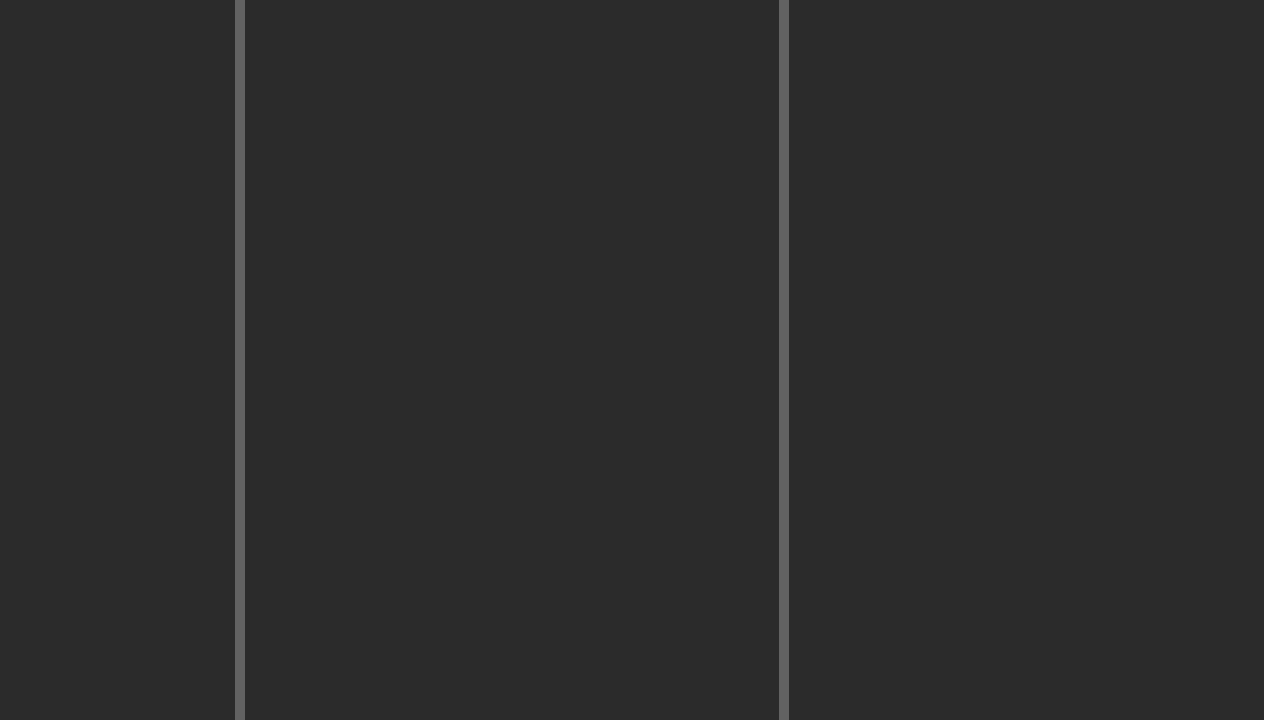
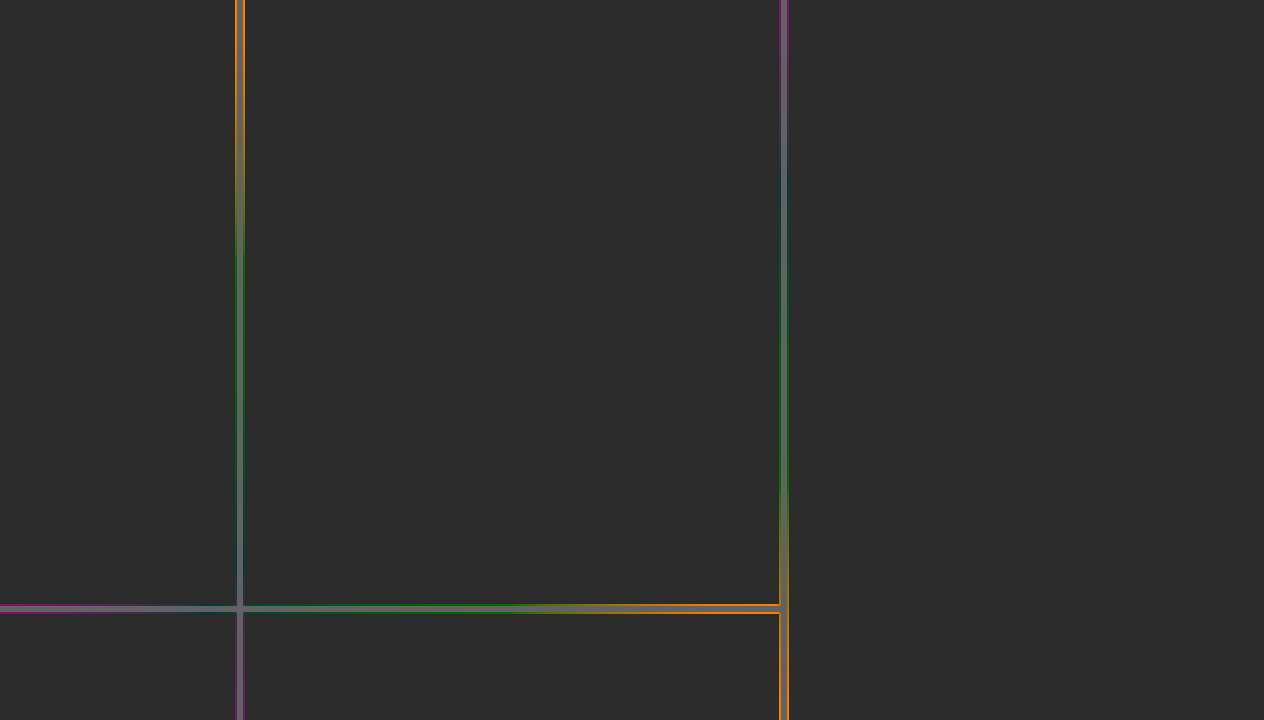
Window full 1.0v

Changed region(s): [[0.0, 0.0, 0.6171, 1.0]]

diff --git a/window.py b/window.py
@@ -1,8 +1,7 @@
 from tkinter import*
 from datetime import datetime
-
-temp=0
-after_id=''
+temp = 0
+after_id = ''
 def tick():
     global temp,after_id
     after_id = root.after(1000,tick)
@@ -11,7 +10,6 @@ def tick():
     temp+=1
 def start_timer():
     tick()
-
 def stop_timer():
     root.after_cancel(after_id)
 
@@ -20,66 +18,86 @@ def stop_timer():
 root = Tk()
 root.title('SpamBot')
 root.geometry('1264x720')
-root.resizable(width = False, height = False)
-root.image = PhotoImage(file = ("pictures/backgraund.png"))
-bg= Label(root, image = root.image)
-bg.grid( row = 0, column = 0)
+root.resizable(width=False, height=False)
+root.image = PhotoImage(file=("pictures/backgraund.png"))
+bg = Label(root, image=root.image)
+bg.grid(row=0, column=0)
 
 
 # <----------Top Name-------------->
 t1 = Label(root, text='Enter yout text here:', fg='white', background='#2c2c2c')
-t1.config(font = ('Comic Sans MS', 20))
-t1.place(x = 365, y = 20)
+t1.config(font=('Comic Sans MS', 20))
+t1.place(x=365, y=20)
 
 
 # <----------Timer-------------->
-timer = Label(root,text = "00:00", fg = "white", background = '#2c2c2c')
-timer.config(font = ('Verdana',30))
-timer.place(x = 450, y = 600)
-
+timer = Label(root, text="00:00", fg="white", background='#2c2c2c')
+timer.config(font=('Verdana', 30))
+timer.place(x=450, y=500)
 
 
 # <----------Text edit-------------->
 edit = Text(root)
-edit.config(font = ('Comic Sans MS', 15),fg = 'white', background = '#646363')
+edit.config(font=('Comic Sans MS', 15), fg='white', background='#646363')
 edit['border'] = 0
-edit.place(x = 265,y = 75, width = 500, height = 400)
+edit.place(x=265, y=75, width=500, height=400)
 
 
 # <----------Button Start-------------->
-button_start_images = PhotoImage(file = ("pictures/button_start.png"))
-button_start = Button(root, image = button_start_images)
-button_start.config(background = "#2c2c2c", activebackground="#2c2c2c")
+button_start_images = PhotoImage(file=("pictures/button_start.png"))
+button_start = Button(root, image=button_start_images, command=start_timer)
+button_start.config(background="#2c2c2c", activebackground="#2c2c2c")
 button_start["border"] = 0
-button_start.place(x = 314, y = 500, width = 100, height = 60)
+button_start.place(x=314, y=500, width=100, height=60)
 
 
 # <----------Button Stop-------------->
-button_stop_images = PhotoImage(file = ("pictures/button_stop.png"))
-button_stop = Button(root,image = button_stop_images, command = start_timer)
-button_stop.config(background = "#2c2c2c", activebackground="#2c2c2c")
+button_stop_images = PhotoImage(file=("pictures/button_stop.png"))
+button_stop = Button(root, image=button_stop_images, command=stop_timer)
+button_stop.config(background="#2c2c2c", activebackground="#2c2c2c")
 button_stop["border"] = 0
-button_stop.place(x = 614, y = 500, width = 100, height = 60)
+button_stop.place(x=614, y=500, width=100, height=60)
 
 
-# <----------View anckets-------------->
-quantity_anket=2
-count=0
-coordinate_y=6
-Name_ankets=["Sirena","Anjelika"]
+# <----------Status massages-------------->
+status_massages_true = Label(root, text="Successfully sent: 123")
+status_massages_true.config(font=('Georgia', 15), fg="#6ec261", background='#2c2c2c')
+status_massages_true.place(x=314, y=640)
+status_massages_false = Label(root, text = "Failed sent: 32")
+status_massages_false.config(font = ('Georgia', 15), fg="red", background='#2c2c2c')
+status_massages_false.place(x=314, y=680)
+
+
+# <----------View ancket-------------->
+quantity_anket = 2
+count = 0
+coordinate_y = 6
+Name_ankets = ["Sirena","Anjelika"]
 if quantity_anket > 0:
     for i in range(quantity_anket):
-        bd_color = Frame(root, highlightbackground = "#6ec261",highlightthickness = 2, bd=0)
-        view_ankets = Button(bd_color,text=str(Name_ankets[int(count)]), background = "#646363", activebackground="#646363")
-        view_ankets.config(font = ('Comic Sans MS', 15),fg = 'white')
-        view_ankets.place(width = 220,height = 60)
-        bd_color.place(x = 7, y = coordinate_y , width = 224,height = 64)
+        bd_color = Frame(root, highlightbackground="#6ec261", highlightthickness=2, bd=0)
+        view_ankets = Button(bd_color, text=str(Name_ankets[int(count)]), background="#646363", activebackground="#646363")
+        view_ankets.config(font=('Comic Sans MS', 15), fg='white')
+        view_ankets.place(width=220, height=60)
+        bd_color.place(x=7, y=coordinate_y, width=224, height=64)
         coordinate_y += 70
-        count+=1
+        count += 1
+
+
+# <----------View men online-------------->
+man_online = Label(root, text="Men Online: 129")
+man_online.config(font=('Georgia', 15), fg="#6ec261", background='#2c2c2c')
+man_online.place(x=15, y=640)
+
 
 # <----------View balance-------------->
+view_balance = Label(root, text="Balance: 99$")
+view_balance.config(font=('Comic Sans MS', 15), fg="#6ec261", background='#2c2c2c')
+view_balance.place(x=15, y=680)
 
-view_balance = Label(root, text = "Balance:")
-view_balance.config(font = ('Comic Sans MS', 15),fg  = "#6ec261", background  = '#2c2c2c')
-view_balance.place(x = 15,y = 680)
 
+# <----------Logi-------------->
+logi_text_lable = Text(root)
+logi_text_lable.config(font=('Comic Sans MS', 15), fg='white', background='#646363')
+logi_text_lable['border'] = 0
+logi_text_lable.place(x=800, y=10, width=455, height=700)
